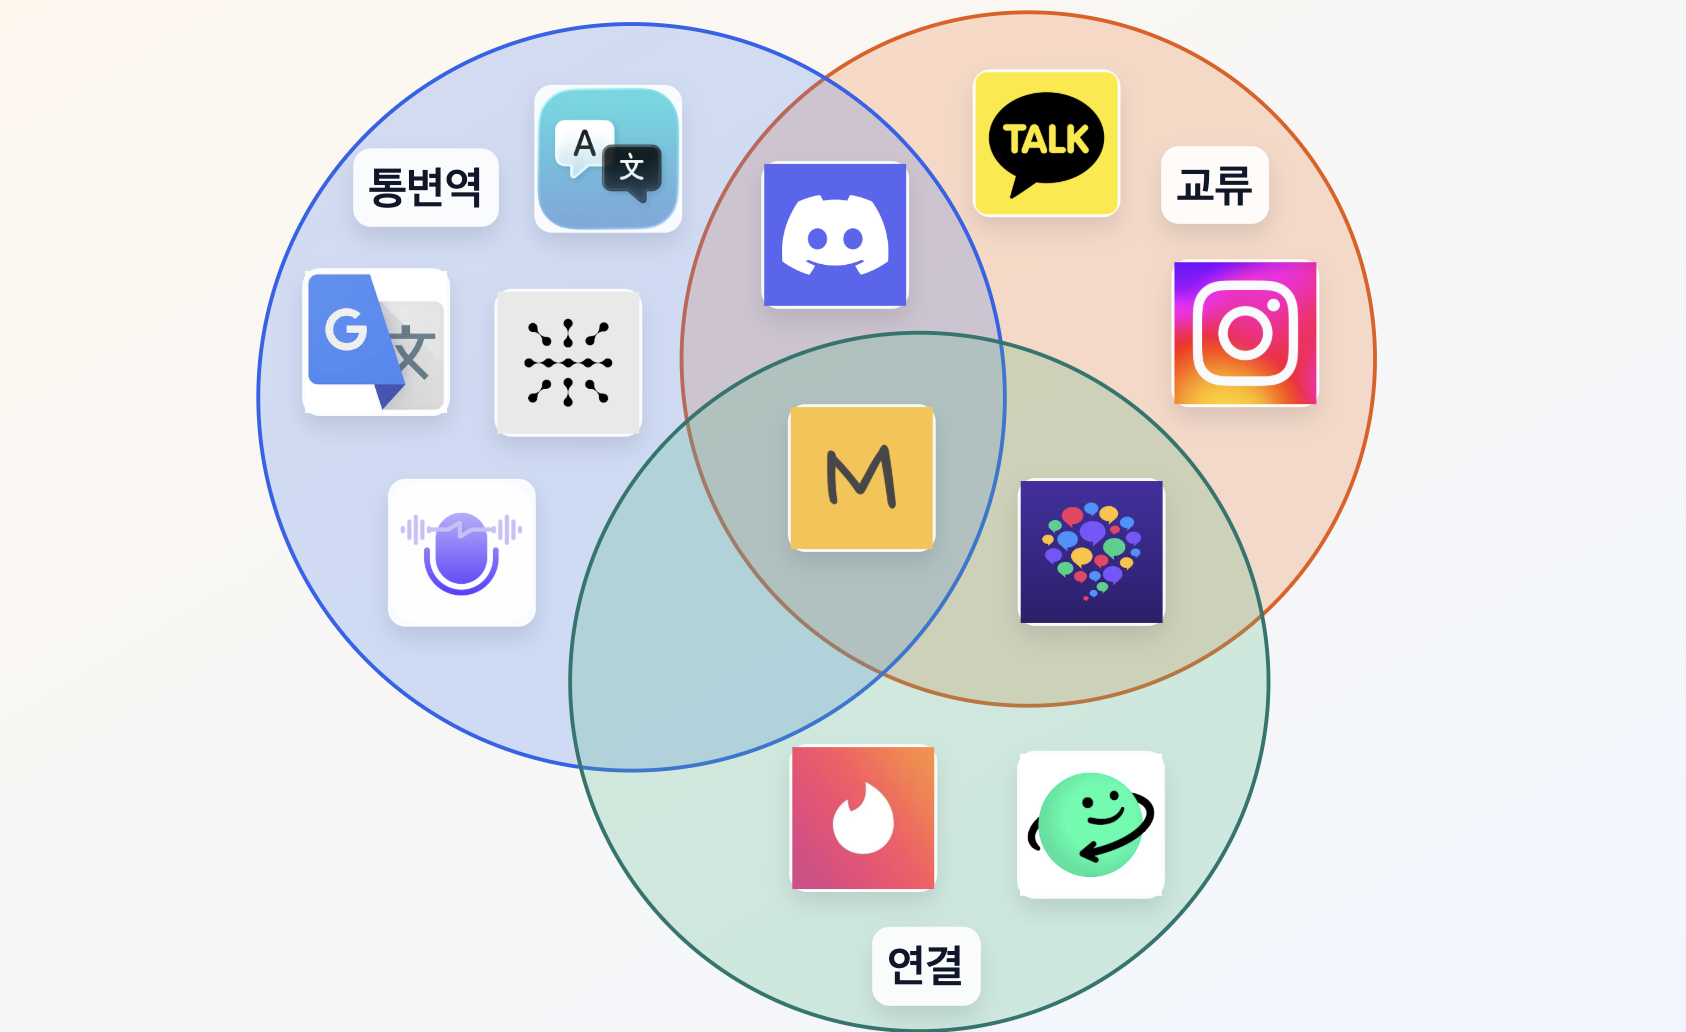
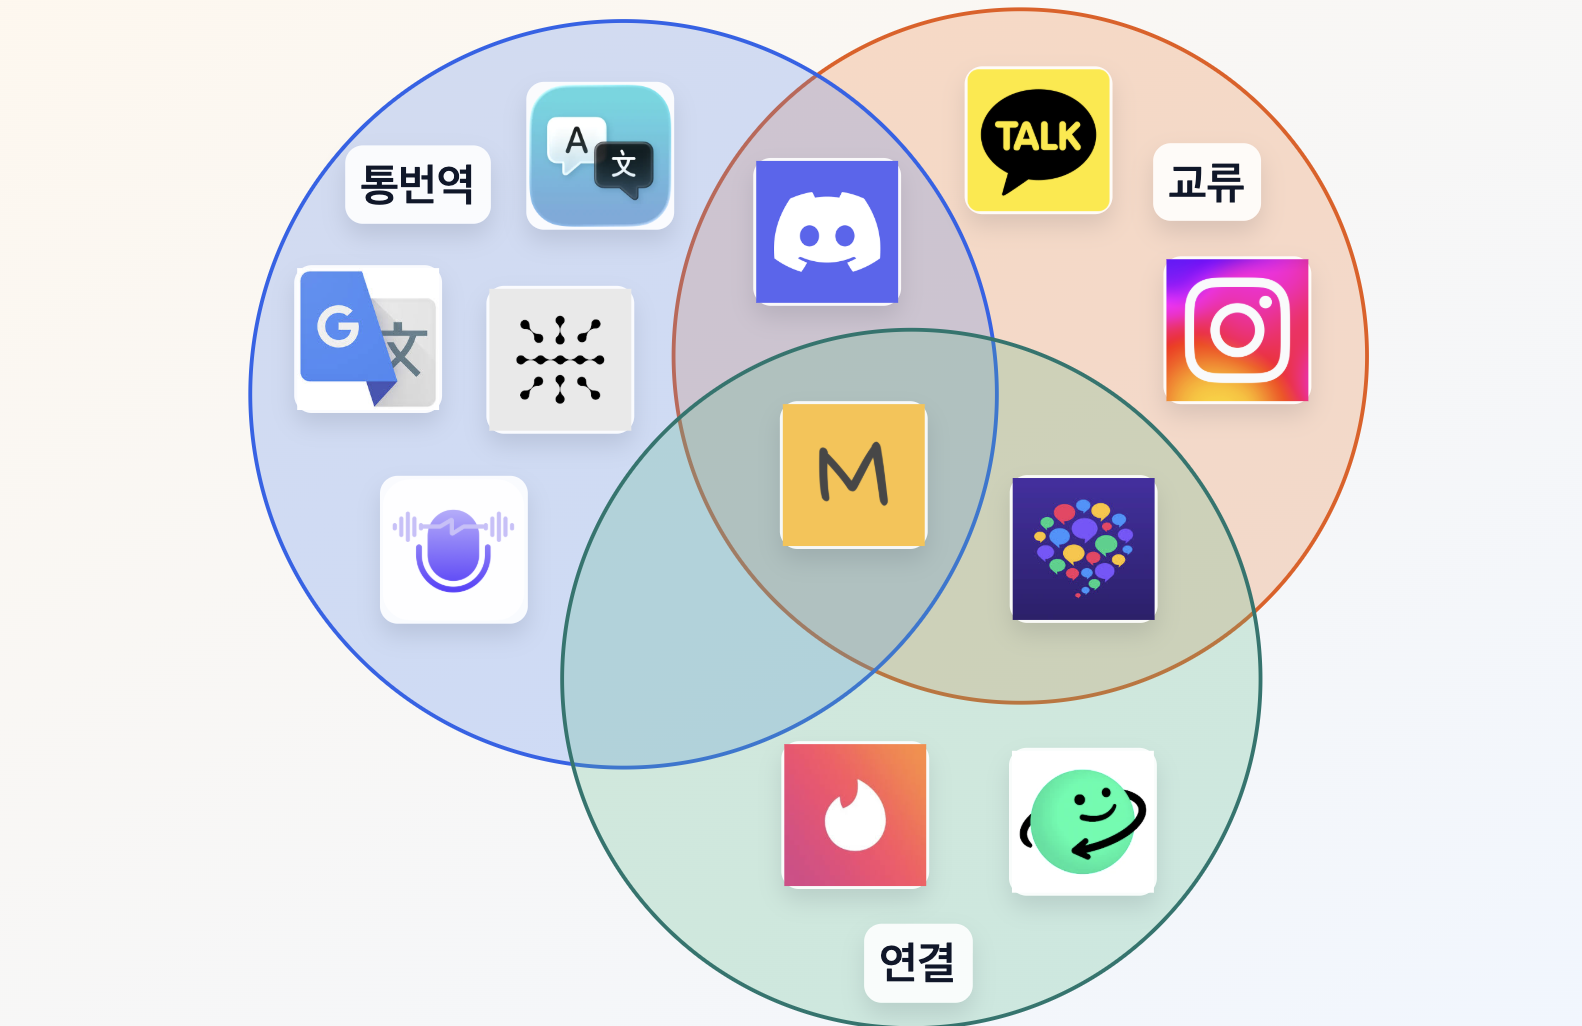
Correct Venn diagram asset in XR decks

Changed region(s): [[0.1239, 0.0, 0.8673, 1.0], [0.2478, 0.0624, 0.2788, 0.0936]]

diff --git a/mingle-app/public/legal/xr-short.html b/mingle-app/public/legal/xr-short.html
@@ -4034,7 +4034,7 @@
           <article class="slide-shell">
             <div class="slide-copy slide-copy--center">
               <p class="slide-kicker">비전</p>
-              <h1 class="slide-title">결국 저희의 궁극적인 목표는<br/>AI 네이티브 SNS입니다
+              <h1 class="slide-title">처음에는 통번역만으로 시작하지만<br/>AI 네이티브 메신저(SNS)로<br/>발전시킬 방법을 찾을 계획입니다
               </h1>
             </div>
           </article>

diff --git a/docs/ui-ux-codex-thread-history.md b/docs/ui-ux-codex-thread-history.md
@@ -746,3 +746,11 @@
 - User impact: The category map felt too spread across the page while the individual services appeared too small.
 - Resolution: Changed the page-eighteen desktop summary to a centered four-plus-three flex layout, enlarged category titles and app icons, and kept each category's icons in a compact horizontal row. Preserved a responsive two-column/four-row mobile layout with the final category centered.
 - Tests: Verified page `18 / 18` at 1280x720 desktop and 390x844 mobile sizes, confirmed four categories in the first desktop row and three in the second, confirmed seven categories and 11 local icons load, confirmed all per-category icon rows are horizontal, and confirmed no horizontal viewport overflow.
+
+## 2026-09-03 — XR Venn diagram asset correction
+
+- Surface: `mingle-app/public/legal/xr.html`, `mingle-app/public/legal/xr-short.html`, and `mingle-app/public/legal/assets/business-venndiagram.png`
+- Issue: The Venn diagram used an earlier image containing a typo.
+- User impact: The same incorrect diagram appeared on the corresponding Venn page in both the full and shortened XR decks.
+- Resolution: Replaced the shared Venn diagram asset with the corrected attached image, so both decks update through their existing single-image page without changing the business matrix page or any other slide.
+- Tests: Verified the corrected asset matches the attached PNG byte-for-byte, confirmed it loads on the Venn page in both decks, confirmed the matrix asset remains unchanged, and confirmed no viewport overflow.
